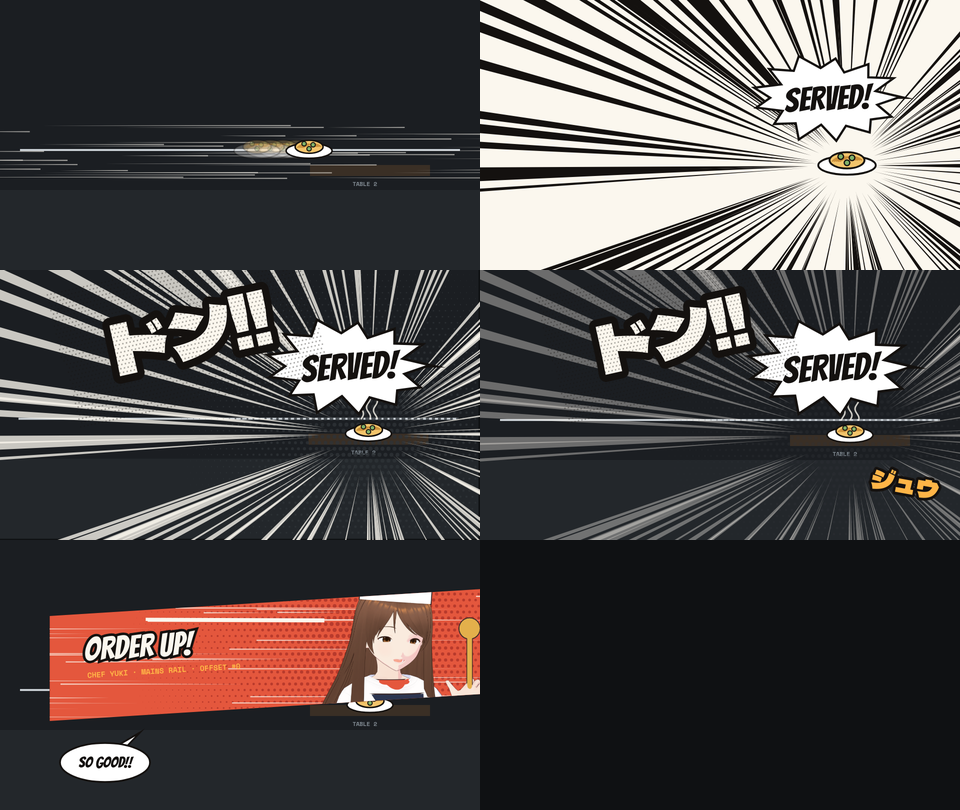
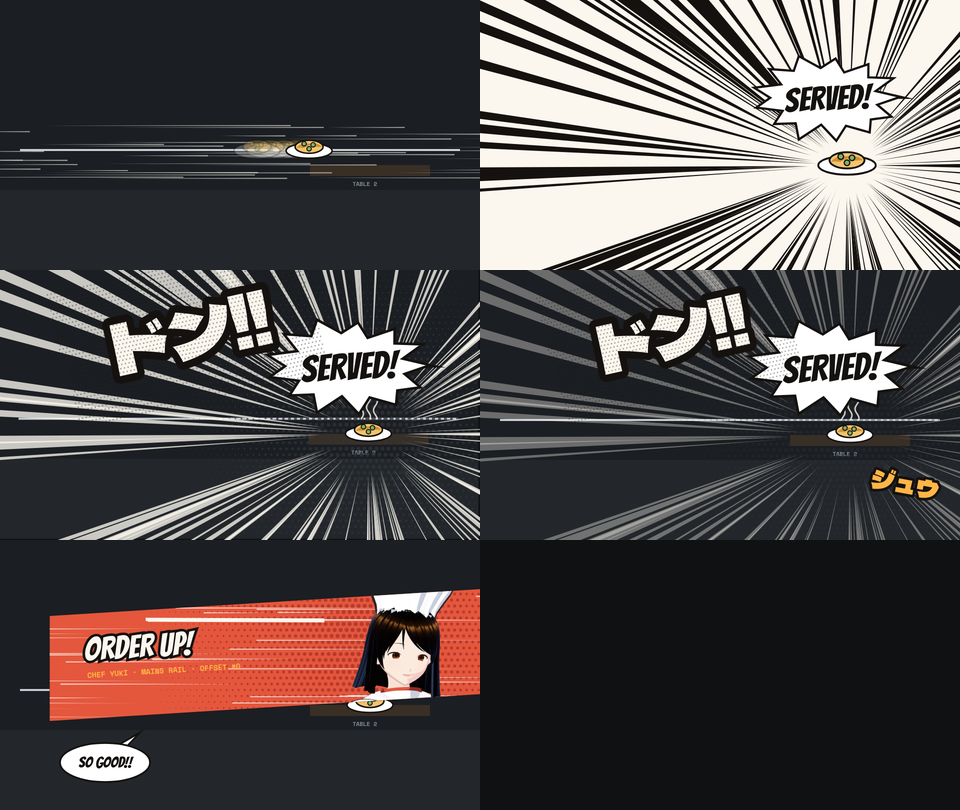
Chef Yuki restyle: bob, chef whites, pleated toque, crossed arms
art/blender/chef_hero.py turns a VRoid/VRM model into a Café Kafka chef:
bob haircut (trims hair + back hair), hair/eye tint, pleated toque,
stand collar with team-colour piping, double-breasted buttons, long
sleeves, trousers, long apron with team waistband, crossed-arms pose and
a soft smile. Renders a portrait, a full sprite and a cut-in bust.
The manga FX cut-in now uses the bust.

Changed region(s): [[0.3438, 0.7099, 0.5, 0.8951]]

diff --git a/art/explore/manga-fx.html b/art/explore/manga-fx.html
@@ -7,7 +7,7 @@ html,body{margin:0;background:#0F1113}
 canvas{display:block;width:960px;height:540px}
 </style></head><body>
 <canvas id="cv" width="960" height="540"></canvas>
-<img id="yuki" src="../sprites/yuki-portrait.png" style="display:none">
+<img id="yuki" src="../sprites/yuki-bust.png" style="display:none">
 <img id="yukiFull" src="../sprites/yuki.png" style="display:none">
 <script>
 // "First dish served" beat, manga style. ?t=1.2 freezes at that time (for screenshots).
@@ -119,7 +119,7 @@ function cutIn(k) {
   halftone(640, y0 + hh / 2, 520, '#B83A2C', 1);
   speedLines(y0, y0 + hh + sk, 0.75, -1);
   const img = document.getElementById('yuki');
-  if (img.complete) x.drawImage(img, 0, 120, 768, 560, 470, y0 - 20, 420, 306);
+  if (img.complete) x.drawImage(img, 60, 40, 648, 472, 500, y0 - 10, 400, 291);
   x.restore();
   x.lineWidth = 8; x.strokeStyle = PAPER; x.stroke();
   x.fillStyle = PAPER; x.font = '64px Bangers'; x.textBaseline = 'alphabetic';

diff --git a/art/blender/chef_hero.py b/art/blender/chef_hero.py
@@ -1,0 +1,307 @@
+"""Café Kafka chef from a VRoid / VRM model: bob haircut, chef whites, pleated toque,
+crossed arms. Renders a cel-shaded portrait, a full-body sprite and a cut-in bust.
+
+  docker run --rm -v "$PWD/art":/work cafe-blender:4.2.3-vrm --python /work/blender/chef_hero.py -- \
+      /work/vrm/pixiv-sample.vrm yuki '#E4573D' '#17161C'
+
+Args: <vrm> <name> <team colour> <hair colour>
+"""
+import math
+import sys
+import bpy
+import bmesh
+from mathutils import Vector, Matrix
+
+args = sys.argv[sys.argv.index("--") + 1:]
+VRM, NAME, TEAM, HAIR = args[0], args[1], args[2], args[3]
+OUT = "/work/sprites"
+
+
+def lin(h):
+    h = h.lstrip("#")
+    srgb = [int(h[i:i + 2], 16) / 255 for i in (0, 2, 4)]
+    return tuple(c / 12.92 if c <= 0.04045 else ((c + 0.055) / 1.055) ** 2.4 for c in srgb)
+
+
+for o in list(bpy.data.objects):
+    bpy.data.objects.remove(o)
+bpy.ops.import_scene.vrm(filepath=VRM)
+arm = next(o for o in bpy.data.objects if o.type == "ARMATURE")
+hb = arm.data.vrm_addon_extension.vrm1.humanoid.human_bones
+B = lambda k: getattr(hb, k).node.bone_name
+sc = bpy.context.scene
+body, hair = bpy.data.objects["Body"], bpy.data.objects["Hair"]
+head_c = arm.data.bones[B("head")].head_local.copy()
+
+# ---------------- hair: short black bob ----------------
+CUT = head_c.z - 0.07          # just under the jaw
+
+
+def cut_below(obj, z, only_mat=None):
+    bm = bmesh.new(); bm.from_mesh(obj.data)
+    idx = {m.name: i for i, m in enumerate(obj.data.materials)}
+    kill = [f for f in bm.faces
+            if (only_mat is None or f.material_index == idx[only_mat])
+            and min((obj.matrix_world @ v.co).z for v in f.verts) < z]
+    bmesh.ops.delete(bm, geom=kill, context="FACES")
+    bm.to_mesh(obj.data); bm.free()
+
+
+cut_below(hair, CUT)
+cut_below(body, CUT + 0.02, "HairBack_00_HAIR")
+for mn in ("Hair_00_HAIR", "HairBack_00_HAIR"):
+    m = bpy.data.materials[mn].vrm_addon_extension.mtoon1
+    m.pbr_metallic_roughness.base_color_factor = (*lin(HAIR), 1)
+    m.extensions.vrmc_materials_mtoon.shade_color_factor = tuple(c * 0.55 for c in lin(HAIR))
+    m.extensions.vrmc_materials_mtoon.parametric_rim_color_factor = lin("#3A4E7A")   # blue-black sheen
+
+# warm amber eyes like the reference
+try:
+    e = bpy.data.materials["EyeIris_00_EYE"].vrm_addon_extension.mtoon1
+    e.pbr_metallic_roughness.base_color_factor = (*lin("#E8B04A"), 1)
+except Exception as ex:
+    print("eye tint skipped", ex)
+
+# ---------------- materials for the outfit ----------------
+CLOTH = bpy.data.materials["Tops_01_CLOTH"]          # the model's own white cel cloth
+
+
+def toon(color, shade, name):
+    m = bpy.data.materials.new(name); m.use_nodes = True
+    n = m.node_tree.nodes; L = m.node_tree.links
+    for x in list(n):
+        n.remove(x)
+    out = n.new("ShaderNodeOutputMaterial"); dif = n.new("ShaderNodeBsdfDiffuse")
+    s2r = n.new("ShaderNodeShaderToRGB"); ramp = n.new("ShaderNodeValToRGB"); em = n.new("ShaderNodeEmission")
+    ramp.color_ramp.interpolation = "CONSTANT"
+    ramp.color_ramp.elements[0].color = (*lin(shade), 1)
+    ramp.color_ramp.elements[1].position = 0.45
+    ramp.color_ramp.elements[1].color = (*lin(color), 1)
+    L.new(dif.outputs[0], s2r.inputs[0]); L.new(s2r.outputs["Color"], ramp.inputs[0])
+    L.new(ramp.outputs[0], em.inputs[0]); L.new(em.outputs[0], out.inputs[0])
+    return m
+
+
+WHITE = toon("#FFFFFF", "#C9CEDC", "whites")
+BUTTON = toon("#9AA3AE", "#5C636C", "buttons")
+TEAMM = toon(TEAM, "#8E2A22", "team")
+OUTLINE = bpy.data.materials.new("ink"); OUTLINE.use_nodes = True
+_n = OUTLINE.node_tree.nodes; _n.remove(_n["Principled BSDF"])
+_e = _n.new("ShaderNodeEmission"); _e.inputs[0].default_value = (*lin("#2E2226"), 1)
+OUTLINE.node_tree.links.new(_e.outputs[0], _n["Material Output"].inputs[0])
+OUTLINE.use_backface_culling = True
+
+
+def finish(o, m, outline=0.004):
+    o.data.materials.append(m); o.data.materials.append(OUTLINE)
+    for p in o.data.polygons:
+        p.use_smooth = True
+    if outline:
+        s = o.modifiers.new("ink", "SOLIDIFY"); s.thickness = outline; s.offset = 1
+        s.use_flip_normals = True; s.material_offset = 1
+    return o
+
+
+def attach(o, bone):
+    bpy.context.view_layer.update()            # make matrix_world reflect location/rotation first
+    mw = o.matrix_world.copy()
+    o.parent = arm; o.parent_type = "BONE"; o.parent_bone = B(bone)
+    bpy.context.view_layer.update(); o.matrix_world = mw
+
+
+def lathe(name, profile, pleats=0, amp=0.0, segs=96):
+    """Revolve (z, r) around Z. Optional pleats ripple the radius."""
+    bm = bmesh.new(); rings = []
+    for z, r in profile:
+        ring = []
+        for i in range(segs):
+            a = 2 * math.pi * i / segs
+            rr = r * (1 + (amp * math.cos(pleats * a) if pleats and r > 0.02 else 0))
+            ring.append(bm.verts.new((rr * math.cos(a), rr * math.sin(a), z)))
+        rings.append(ring)
+    for r0, r1 in zip(rings, rings[1:]):
+        for i in range(segs):
+            j = (i + 1) % segs
+            bm.faces.new((r0[i], r0[j], r1[j], r1[i]))
+    bm.faces.new(rings[0][::-1])
+    me = bpy.data.meshes.new(name); bm.to_mesh(me); bm.free()
+    o = bpy.data.objects.new(name, me); sc.collection.objects.link(o)
+    return o
+
+
+def tube(name, p0, p1, r0, r1, m, outline=0.004):
+    """Tapered sleeve from p0 to p1 (world)."""
+    p0, p1 = Vector(p0), Vector(p1)
+    o = lathe(name, [(0, r0), (1, r1)], segs=40)
+    o.data.polygons[-1].use_smooth = True
+    d = p1 - p0
+    o.matrix_world = Matrix.Translation(p0) @ d.to_track_quat("Z", "Y").to_matrix().to_4x4() @ Matrix.Diagonal((1, 1, d.length, 1))
+    return finish(o, m, outline)
+
+
+def ball(name, p, r, m, outline=0.003):
+    bpy.ops.mesh.primitive_uv_sphere_add(segments=32, ring_count=16, radius=r, location=p)
+    o = bpy.context.object; o.name = name
+    return finish(o, m, outline)
+
+
+# ---------------- body front profile (rest pose) for buttons + apron ----------------
+bpy.context.view_layer.update()
+dg = bpy.context.evaluated_depsgraph_get()
+ev = body.evaluated_get(dg); me = ev.to_mesh()
+verts = [body.matrix_world @ v.co for v in me.vertices]
+ev.to_mesh_clear()
+
+
+def front_y(z, half_w=0.0, band=0.0, x=0.0):
+    """Where the body surface is, looking from the front at (x, z)."""
+    ok, loc, *_ = body.ray_cast(Vector((x, -2, z)), Vector((0, 1, 0)))
+    return loc.y if ok else None
+
+
+hair_top = max((hair.matrix_world @ Vector(c)).z for c in hair.bound_box)
+
+# pleated toque
+toque = lathe("toque", [(0, 0.101), (0.045, 0.102), (0.07, 0.108), (0.11, 0.126), (0.15, 0.146), (0.19, 0.16),
+                        (0.22, 0.162), (0.245, 0.152), (0.265, 0.126), (0.278, 0.09), (0.285, 0.05), (0.2875, 0.02)],
+              pleats=12, amp=0.07)
+toque.location = (head_c.x, head_c.y + 0.012, hair_top - 0.085)
+toque.rotation_euler = (math.radians(-10), math.radians(4), 0)
+toque.scale = (0.86, 0.86, 0.78)
+finish(toque, WHITE, 0.005)
+band = lathe("band", [(0, 0.106), (0.05, 0.106)], segs=64)
+band.location = toque.location; band.rotation_euler = toque.rotation_euler; band.scale = (0.86, 0.86, 0.8)
+finish(band, WHITE, 0.004)
+for o in (toque, band):
+    attach(o, "head")
+
+# stand collar + double-breasted buttons + team-colour piping on the collar
+neck = arm.data.bones[B("neck")].head_local
+collar = lathe("collar", [(0, 0.074), (0.05, 0.064)], segs=64)
+collar.location = (neck.x, neck.y - 0.012, neck.z - 0.04)
+collar.rotation_euler = (math.radians(-12), 0, 0)
+finish(collar, WHITE, 0.003); attach(collar, "upper_chest")
+pipe = lathe("pipe", [(0, 0.0655), (0.007, 0.0645)], segs=64)
+pipe.location = (neck.x, neck.y - 0.012 - 0.01, neck.z + 0.006)
+pipe.rotation_euler = (math.radians(-12), 0, 0)
+finish(pipe, TEAMM, 0.002); attach(pipe, "upper_chest")
+for z in (1.235, 1.17):
+    for s in (-1, 1):
+        fy = front_y(z, x=s * 0.05)
+        b = ball(f"btn{z}{s}", (s * 0.05, (fy if fy is not None else -0.1) - 0.003, z), 0.011, BUTTON, 0.002)
+        attach(b, "upper_chest")
+
+# long white waist apron with a team-colour waistband
+rows = [(0.99, 0.19), (0.9, 0.2), (0.8, 0.205), (0.7, 0.21), (0.6, 0.215), (0.5, 0.22), (0.42, 0.225)]
+bm = bmesh.new(); grid = []
+for z, w in rows:
+    row, prev = [], None
+    for i in range(17):
+        xx = -w + 2 * w * i / 16
+        fy = front_y(z, x=xx * 0.85)
+        fy = fy if fy is not None else (prev if prev is not None else -0.08)
+        prev = fy
+        depth = (0.99 - z) / 0.57                                  # 0 at the waist, 1 at the hem
+        fold = 0.016 * depth * math.sin(xx * 24 + 0.6)
+        row.append(bm.verts.new((xx, min(fy, -0.06) - 0.035 - 0.03 * depth + fold + (abs(xx) / w) ** 3 * 0.09, z)))
+    grid.append(row)
+for r in range(len(grid) - 1):
+    for i in range(16):
+        bm.faces.new((grid[r][i], grid[r][i + 1], grid[r + 1][i + 1], grid[r + 1][i]))
+ame = bpy.data.meshes.new("apron"); bm.to_mesh(ame); bm.free()
+apron = bpy.data.objects.new("apron", ame); sc.collection.objects.link(apron)
+apron.modifiers.new("t", "SOLIDIFY").thickness = 0.006
+finish(apron, WHITE, 0.004); attach(apron, "hips")
+wb = lathe("waistband", [(0, 0.165), (0.03, 0.163)], segs=64)
+wb.location = (0, -0.02, 0.975); wb.scale = (1.05, 0.78, 1)
+finish(wb, TEAMM, 0.003); attach(wb, "hips")
+
+# ---------------- pose: arms crossed, slight head tilt ----------------
+bpy.context.view_layer.objects.active = arm
+bpy.ops.object.mode_set(mode="POSE")
+
+
+def aim(key, d):
+    pb = arm.pose.bones[B(key)]
+    bpy.context.view_layer.update()
+    h = pb.head.copy()
+    q = (pb.tail - pb.head).normalized().rotation_difference(Vector(d).normalized())
+    pb.matrix = Matrix.Translation(h) @ q.to_matrix().to_4x4() @ Matrix.Translation(-h) @ pb.matrix
+    bpy.context.view_layer.update()
+
+
+# She faces -Y; her right side is -X.
+aim("right_upper_arm", (-0.16, -0.5, -1))
+aim("right_lower_arm", (1, -0.28, 0.28))
+aim("left_upper_arm", (0.16, -0.62, -1))
+aim("left_lower_arm", (-1, -0.55, 0.36))
+aim("right_hand", (0.6, 0.2, 0.2))
+aim("left_hand", (-0.6, 0.3, -0.1))
+aim("head", (0.1, -0.08, 1))
+for side in ("left", "right"):
+    for f in ("index", "middle", "ring", "little"):
+        for j in ("proximal", "intermediate", "distal"):
+            try:
+                pb = arm.pose.bones[B(f"{side}_{f}_{j}")]
+                pb.rotation_mode = "XYZ"; pb.rotation_euler = (0, 0, math.radians(35 if side == "left" else -35))
+            except Exception:
+                pass
+bpy.ops.object.mode_set(mode="OBJECT")
+ex = arm.data.vrm_addon_extension.vrm1.expressions.preset
+ex.happy.preview = 0.22
+ex.relaxed.preview = 0.15
+bpy.context.view_layer.update()
+
+# ---------------- long sleeves + trousers follow the posed bones ----------------
+P = lambda k, end="head": arm.matrix_world @ getattr(arm.pose.bones[B(k)], end)
+for s in ("left", "right"):
+    sh, el, wr = P(f"{s}_upper_arm"), P(f"{s}_lower_arm"), P(f"{s}_hand")
+    attach(tube(f"{s}-upper", sh, el, 0.058, 0.046, WHITE), f"{s}_upper_arm")
+    attach(ball(f"{s}-elbow", el, 0.046, WHITE), f"{s}_lower_arm")
+    attach(tube(f"{s}-lower", el, wr, 0.046, 0.042, WHITE), f"{s}_lower_arm")
+    cuff = wr + (wr - el).normalized() * -0.012
+    attach(tube(f"{s}-cuff", cuff, wr + (wr - el).normalized() * 0.006, 0.045, 0.045, WHITE), f"{s}_lower_arm")
+    hip, knee, ank = P(f"{s}_upper_leg"), P(f"{s}_lower_leg"), P(f"{s}_foot")
+    attach(tube(f"{s}-thigh", hip + Vector((0, 0, 0.05)), knee, 0.092, 0.066, WHITE), f"{s}_upper_leg")
+    attach(tube(f"{s}-shin", knee, ank + Vector((0, 0, 0.02)), 0.066, 0.056, WHITE), f"{s}_lower_leg")
+
+# ---------------- light + cameras ----------------
+sun = bpy.data.objects.new("sun", bpy.data.lights.new("sun", "SUN")); sc.collection.objects.link(sun)
+sun.data.energy = 3.0
+sun.rotation_euler = Vector((-0.7, -1.0, 1.2)).to_track_quat("Z", "Y").to_euler()   # light from her right-front, above
+sc.world = sc.world or bpy.data.worlds.new("w"); sc.world.use_nodes = True
+sc.world.node_tree.nodes["Background"].inputs[0].default_value = (0.42, 0.43, 0.48, 1)
+sc.render.engine = "BLENDER_EEVEE_NEXT"; sc.render.film_transparent = True
+sc.view_settings.view_transform = "Standard"; sc.render.image_settings.color_mode = "RGBA"
+cam = bpy.data.objects.new("cam", bpy.data.cameras.new("cam")); sc.collection.objects.link(cam); sc.camera = cam
+cam.data.type = "ORTHO"
+
+
+def shoot(path, center, scale, res, az=-20, el=4):
+    a, e = math.radians(az), math.radians(el)
+    cam.location = Vector(center) + 6 * Vector((math.cos(e) * math.sin(a), -math.cos(e) * math.cos(a), math.sin(e)))
+    cam.rotation_euler = (Vector(center) - cam.location).to_track_quat("-Z", "Y").to_euler()
+    cam.data.ortho_scale = scale
+    sc.render.resolution_x, sc.render.resolution_y = res
+    sc.render.filepath = path
+    bpy.ops.render.render(write_still=True)
+    print("rendered", path, flush=True)
+
+
+only = args[4:] or ["portrait", "full", "bust"]
+if "debug" in only:
+    bpy.context.view_layer.update()
+    for n in ("toque", "band", "collar", "apron", "waistband", "btn1.235-1"):
+        o = bpy.data.objects.get(n)
+        if o is None: print("DBG", n, "MISSING"); continue
+        ws = [o.matrix_world @ Vector(c) for c in o.bound_box]
+        print("DBG", n, "hide", o.hide_render, "z", round(min(w.z for w in ws), 3), round(max(w.z for w in ws), 3),
+              "y", round(min(w.y for w in ws), 3), "x", round(min(w.x for w in ws), 3), round(max(w.x for w in ws), 3), "mats", [m.name for m in o.data.materials])
+    print("DBG hair_top", round(hair_top, 3), "CUT", round(CUT, 3))
+top = hair_top + 0.22
+if "portrait" in only:   # thigh-up, like the reference
+    shoot(f"{OUT}/{NAME}-hero.png", (0, 0, (top + 0.6) / 2), (top - 0.6) * 1.05, (600, 900))
+if "full" in only:
+    shoot(f"{OUT}/{NAME}.png", (0, 0, top / 2), top * 1.04, (512, 512))
+if "bust" in only:       # for the manga cut-in panel
+    shoot(f"{OUT}/{NAME}-bust.png", (head_c.x, head_c.y, head_c.z - 0.05), 0.75, (768, 768), az=-16, el=3)

diff --git a/art/tools/ondark.py b/art/tools/ondark.py
@@ -1,0 +1,5 @@
+import sys
+from PIL import Image
+for p in sys.argv[1:]:
+    im = Image.open(p).convert("RGBA"); bg = Image.new("RGBA", im.size, "#1B1E22")
+    bg.alpha_composite(im); bg.convert("RGB").save(p.replace(".png", "-dark.png"))
